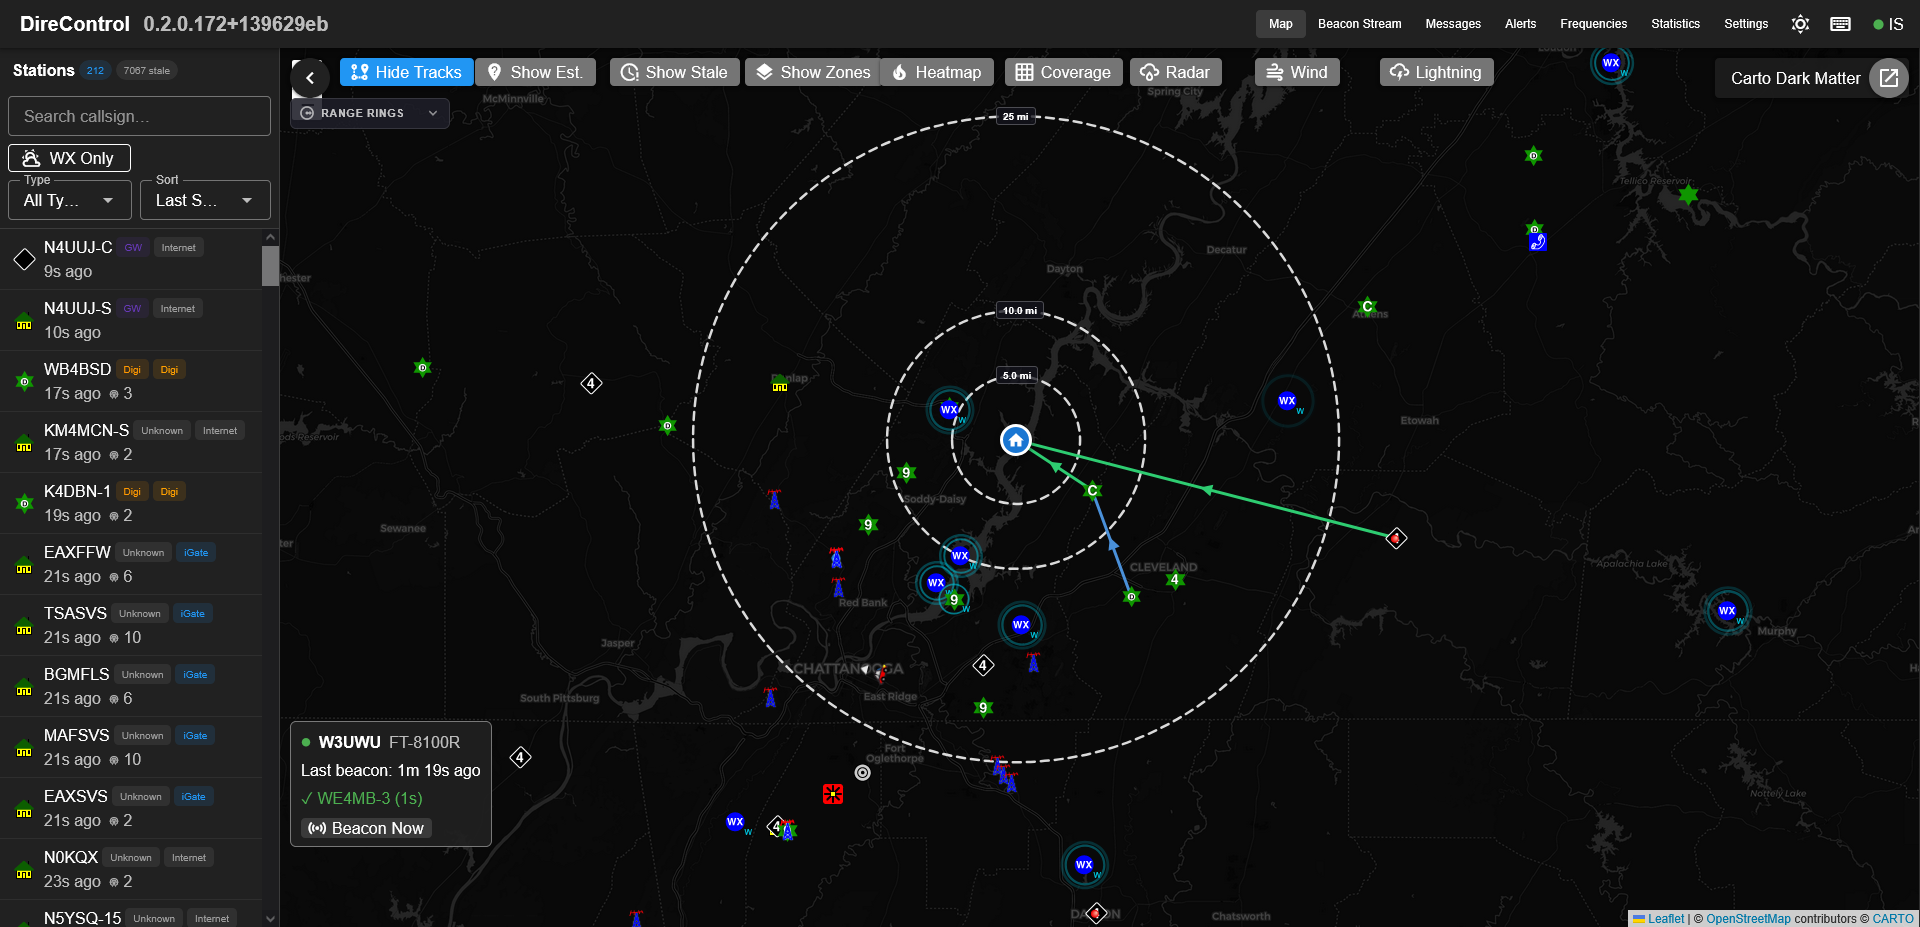
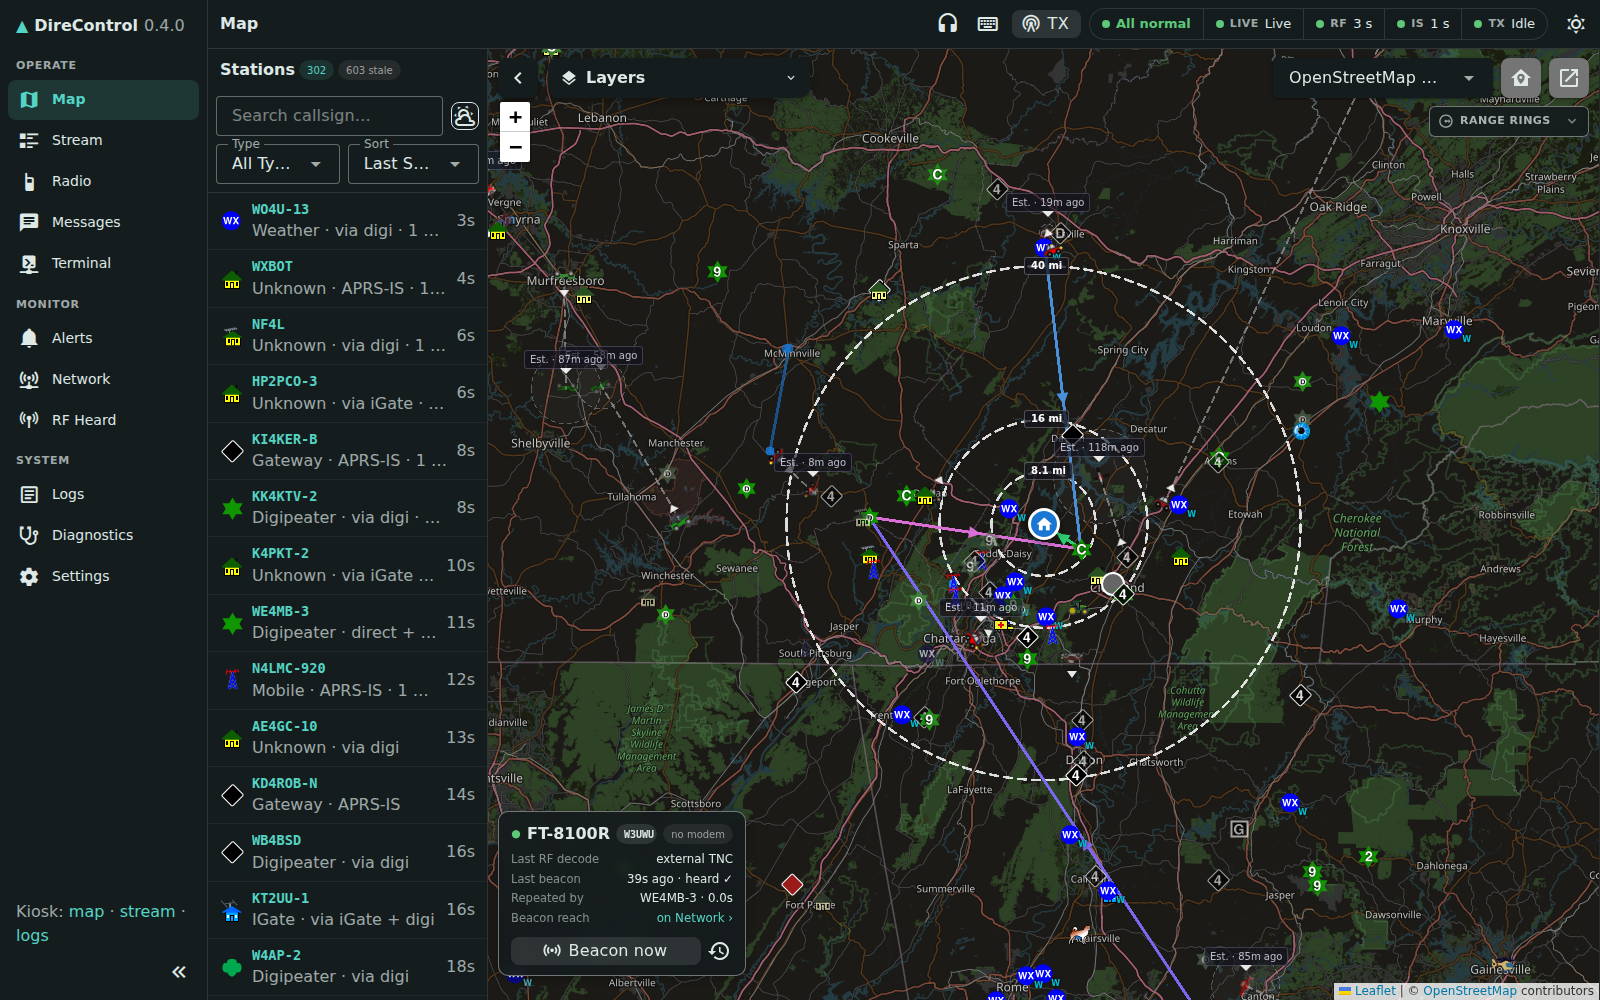
README: new screenshots and gallery, replace em dashes

diff --git a/README.md b/README.md
@@ -1,27 +1,36 @@
 # DireControl
 
-A real-time APRS (Automatic Packet Reporting System) monitoring and control application with a built-in AFSK-1200 soundcard modem — point it at an ALSA audio device and receive RF directly, no external TNC required. An external KISS TCP TNC ([Direwolf](https://github.com/wb2osz/direwolf) or hardware) is still supported as an alternate/parallel RF backend. Aggregates packets from local RF and APRS-IS, provides interactive mapping, messaging, alerting, and beacon management for ham radio operators.
+A real-time APRS (Automatic Packet Reporting System) monitoring and control application with a built-in AFSK-1200 soundcard modem. Point it at an ALSA audio device and receive RF directly, no external TNC required. An external KISS TCP TNC ([Direwolf](https://github.com/wb2osz/direwolf) or hardware) is still supported as an alternate/parallel RF backend. Aggregates packets from local RF and APRS-IS, provides interactive mapping, messaging, alerting, and beacon management for ham radio operators.
 
-![DireControl screenshot](screenshot.png)
+![DireControl map with stations, tracks, packet paths and range rings](screenshot.png)
 
 ## Features
 
-- **Native sound modem** — Software AFSK-1200 modem (DSP in C#: tone correlators, PLL clock recovery, HDLC/AX.25 codec) reading and transmitting straight through an ALSA sound device, with live audio level/DCD/TX status in the UI
-- **Radio control** — PTT via serial RTS/DTR, CM108 USB HID (DigiRig), Linux GPIO, or hamlib rigctld (with rig frequency display); p-persistence CSMA channel access with carrier sense
-- **Digipeater** — WIDEn-N with callsign substitution, path trapping (WIDE7-7 abuse), fill-in mode, and 30 s duplicate suppression
-- **KISS TCP server** — other applications can use DireControl as their TNC
-- **Bidirectional iGate** — RF→IS gating with the qAR construct, and IS→RF message gating (third-party format) for stations recently heard on RF
-- **Signal telemetry** — live 0–4 kHz waterfall in the browser, per-packet audio level and demodulator profile, decode statistics
-- **Real-time packet capture** — Native modem and/or Direwolf via KISS TCP, parses AX.25 frames, and classifies stations by type (Mobile, Fixed, Weather, Digipeater, IGate)
-- **APRS-IS integration** — Dual-source packet aggregation from RF and internet with configurable filters and deduplication
-- **Interactive map** — Leaflet-based map with station plotting, APRS symbols, track history, range rings, heatmap overlay, and Maidenhead grid coverage analysis
-- **Messaging** — Send and receive APRS messages with automatic retry and acknowledgment tracking
-- **Beacon management** — Multi-radio beacon configuration with digipeater confirmation tracking and heard/not-heard status
-- **Alerting** — Watch list alerts, proximity rules, and geofences with real-time notifications
-- **Weather overlays** — NEXRAD radar (IEM), RainViewer Pro, lightning (Blitzortung), and wind tiles (OpenWeatherMap)
-- **Callsign lookup** — HamDB and QRZ integration with result caching
-- **Statistics** — Coverage grid analysis, digipeater statistics, packet rates, and per-station metrics
-- **Real-time updates** — SignalR pushes all events (packets, messages, alerts, beacon confirmations) to the browser instantly
+- **Native sound modem**: Software AFSK-1200 modem (DSP in C#: tone correlators, PLL clock recovery, HDLC/AX.25 codec) reading and transmitting straight through an ALSA sound device, with live audio level/DCD/TX status in the UI
+- **Radio control**: PTT via serial RTS/DTR, CM108 USB HID (DigiRig), Linux GPIO, or hamlib rigctld (with rig frequency display); p-persistence CSMA channel access with carrier sense
+- **Digipeater**: WIDEn-N with callsign substitution, path trapping (WIDE7-7 abuse), fill-in mode, and 30 s duplicate suppression
+- **KISS TCP server**: other applications can use DireControl as their TNC
+- **Bidirectional iGate**: RF→IS gating with the qAR construct, and IS→RF message gating (third-party format) for stations recently heard on RF
+- **Signal telemetry**: live 0–4 kHz waterfall in the browser, per-packet audio level and demodulator profile, decode statistics
+- **Real-time packet capture**: Native modem and/or Direwolf via KISS TCP, parses AX.25 frames, and classifies stations by type (Mobile, Fixed, Weather, Digipeater, IGate)
+- **APRS-IS integration**: Dual-source packet aggregation from RF and internet with configurable filters and deduplication
+- **Interactive map**: Leaflet-based map with station plotting, APRS symbols, track history, range rings, heatmap overlay, and Maidenhead grid coverage analysis
+- **Messaging**: Send and receive APRS messages with automatic retry and acknowledgment tracking
+- **Beacon management**: Multi-radio beacon configuration with digipeater confirmation tracking and heard/not-heard status
+- **Alerting**: Watch list alerts, proximity rules, and geofences with real-time notifications
+- **Weather overlays**: NEXRAD radar (IEM), RainViewer Pro, lightning (Blitzortung), and wind tiles (OpenWeatherMap)
+- **Callsign lookup**: HamDB and QRZ integration with result caching
+- **Statistics**: Coverage grid analysis, digipeater statistics, packet rates, and per-station metrics
+- **Real-time updates**: SignalR pushes all events (packets, messages, alerts, beacon confirmations) to the browser instantly
+
+## Screenshots
+
+| | |
+|---|---|
+| ![Packet stream](docs/screenshots/stream.png) | ![Station detail](docs/screenshots/station.png) |
+| **Stream.** Every packet from RF and APRS-IS as it arrives, with type and source filters. | **Station detail.** The path the last packet took to reach you, plus activity, packets and signal data. |
+| ![Network overview](docs/screenshots/network.png) | ![Digipeaters](docs/screenshots/network-digipeaters.png) |
+| **Network.** Packets per hour by source, newly heard stations and the busiest beacons. | **Digipeaters.** Who forwards the most traffic near you and which ones repeat your beacons. |
 
 ## Tech Stack
 
@@ -39,7 +48,7 @@ The easiest way to run DireControl is with Docker Compose. Copy `docker-compose.
 
 ```bash
 cp .env.example .env
-# Edit .env — at minimum set DireControl__OurCallsign to your callsign
+# Edit .env: at minimum set DireControl__OurCallsign to your callsign
 docker compose up -d
 ```
 
@@ -54,7 +63,7 @@ services:
     env_file: .env
     ports:
       - "${HTTP_PORT:-80}:5010"
-      # KISS TCP server — uncomment (and enable in Settings) to let other
+      # KISS TCP server: uncomment (and enable in Settings) to let other
       # apps on your network use DireControl as their TNC
       # - "8010:8010"
     volumes:
@@ -63,7 +72,7 @@ services:
     # Allows the container to reach Direwolf running on the host via host.docker.internal
     extra_hosts:
       - "host.docker.internal:host-gateway"
-    # Hardware passthrough for the native sound modem — uncomment `devices:`
+    # Hardware passthrough for the native sound modem: uncomment `devices:`
     # plus the entries you use (compose fails if a listed device is missing):
     # devices:
     #   - /dev/snd:/dev/snd            # sound cards (modem RX/TX audio)
@@ -83,7 +92,7 @@ DireControl is configured through environment variables and the in-app Settings 
 | `HTTP_PORT` | `80` | Host port to expose the web UI on |
 | `DireControl__OurCallsign` | `N0CALL-10` | Your callsign with SSID |
 | `DireControl__HomeLat` / `DireControl__HomeLon` | *(unset)* | Home position for beacons and distance calculations |
-| `QRZ__Username` / `QRZ__Password` | *(empty)* | QRZ callsign lookup credentials (optional — HamDB is used as a free fallback) |
+| `QRZ__Username` / `QRZ__Password` | *(empty)* | QRZ callsign lookup credentials (optional; HamDB is used as a free fallback) |
 | `DireControl__StationExpiryTimeoutMinutes` | `120` | Default minutes before inactive stations expire |
 
 See `.env.example` for the full list including per-type station expiry overrides.
@@ -91,14 +100,14 @@ See `.env.example` for the full list including per-type station expiry overrides
 **In-app settings** (configured through the Settings page in the UI):
 
 - Radios and the native sound modem (Settings → Radios)
-- External KISS TCP TNC such as Direwolf — host and port (Settings → RF Services → External TNC; use `host.docker.internal` from Docker)
+- External KISS TCP TNC such as Direwolf: host and port (Settings → RF Services → External TNC; use `host.docker.internal` from Docker)
 - APRS-IS connection (host, port, filter, passcode)
 - Weather API keys (OpenWeatherMap, RainViewer)
 - Radar provider selection
 
 ### Image Tags
 
-The `stable` tag always points to the latest release. Pinned version tags (e.g. `0.2.0.173`) are also available — see [Docker Hub](https://hub.docker.com/r/roushtech/direcontrol/tags) for all tags.
+The `stable` tag always points to the latest release. Pinned version tags (e.g. `0.2.0.173`) are also available. See [Docker Hub](https://hub.docker.com/r/roushtech/direcontrol/tags) for all tags.
 
 ## Building from Source
 
@@ -106,7 +115,7 @@ The `stable` tag always points to the latest release. Pinned version tags (e.g. 
 
 - [.NET 10 SDK](https://dotnet.microsoft.com/download)
 - [Node.js](https://nodejs.org/) 20.19+ or 22.12+
-- An ALSA sound device wired to your radio for the built-in modem — or, alternatively, an external KISS TCP TNC such as [Direwolf](https://github.com/wb2osz/direwolf)
+- An ALSA sound device wired to your radio for the built-in modem, or an external KISS TCP TNC such as [Direwolf](https://github.com/wb2osz/direwolf)
 
 ### Backend
 
@@ -143,4 +152,4 @@ dotnet test DireControl.Tests/DireControl.Tests.csproj
 
 ## License
 
-[MIT](LICENSE) — Copyright (c) 2026 William Roush / RoushTech
+[MIT](LICENSE). Copyright (c) 2026 William Roush / RoushTech
